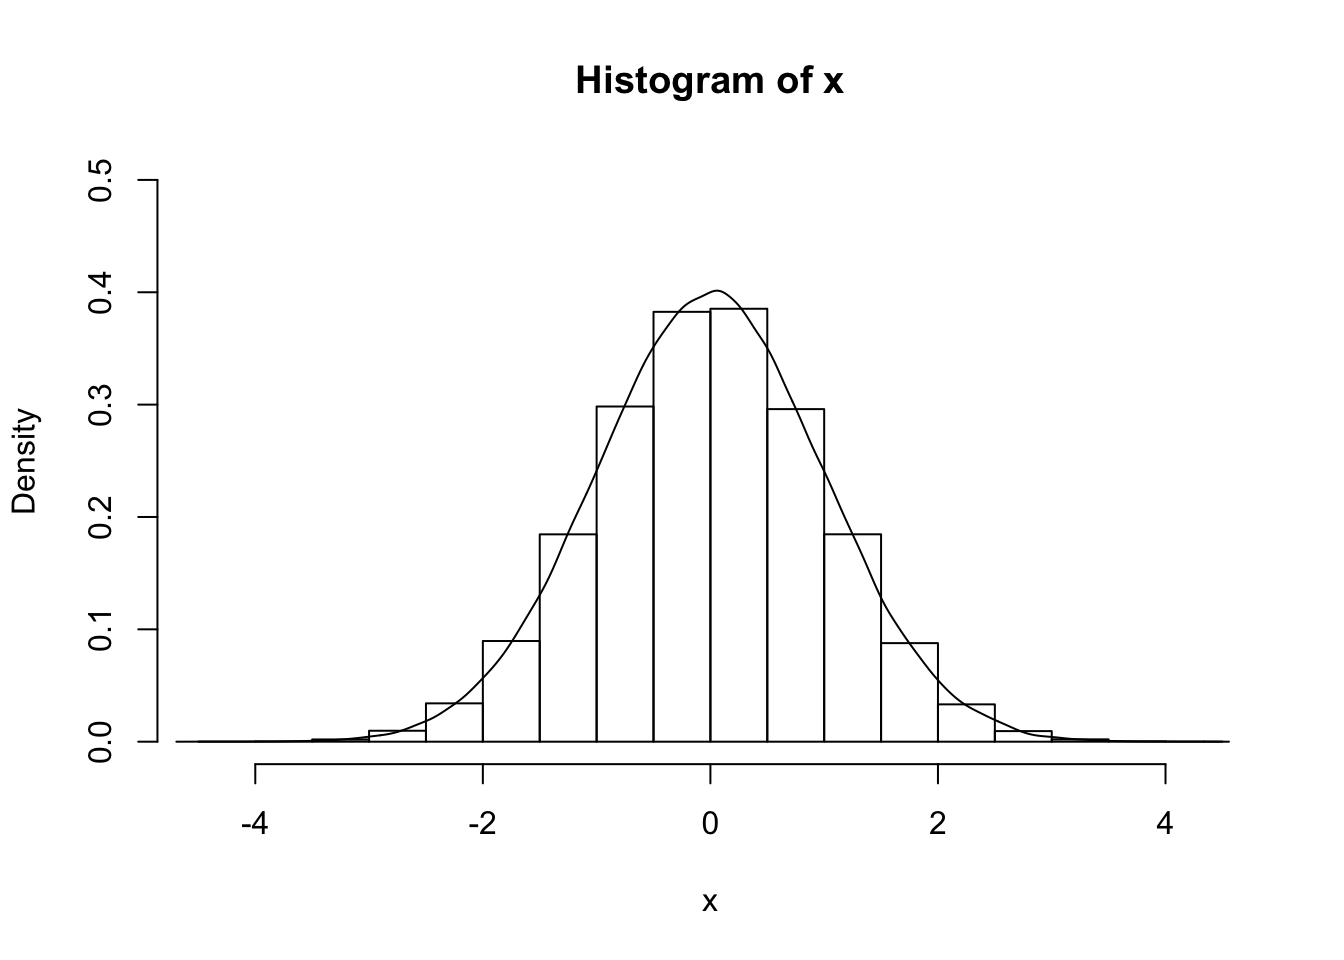
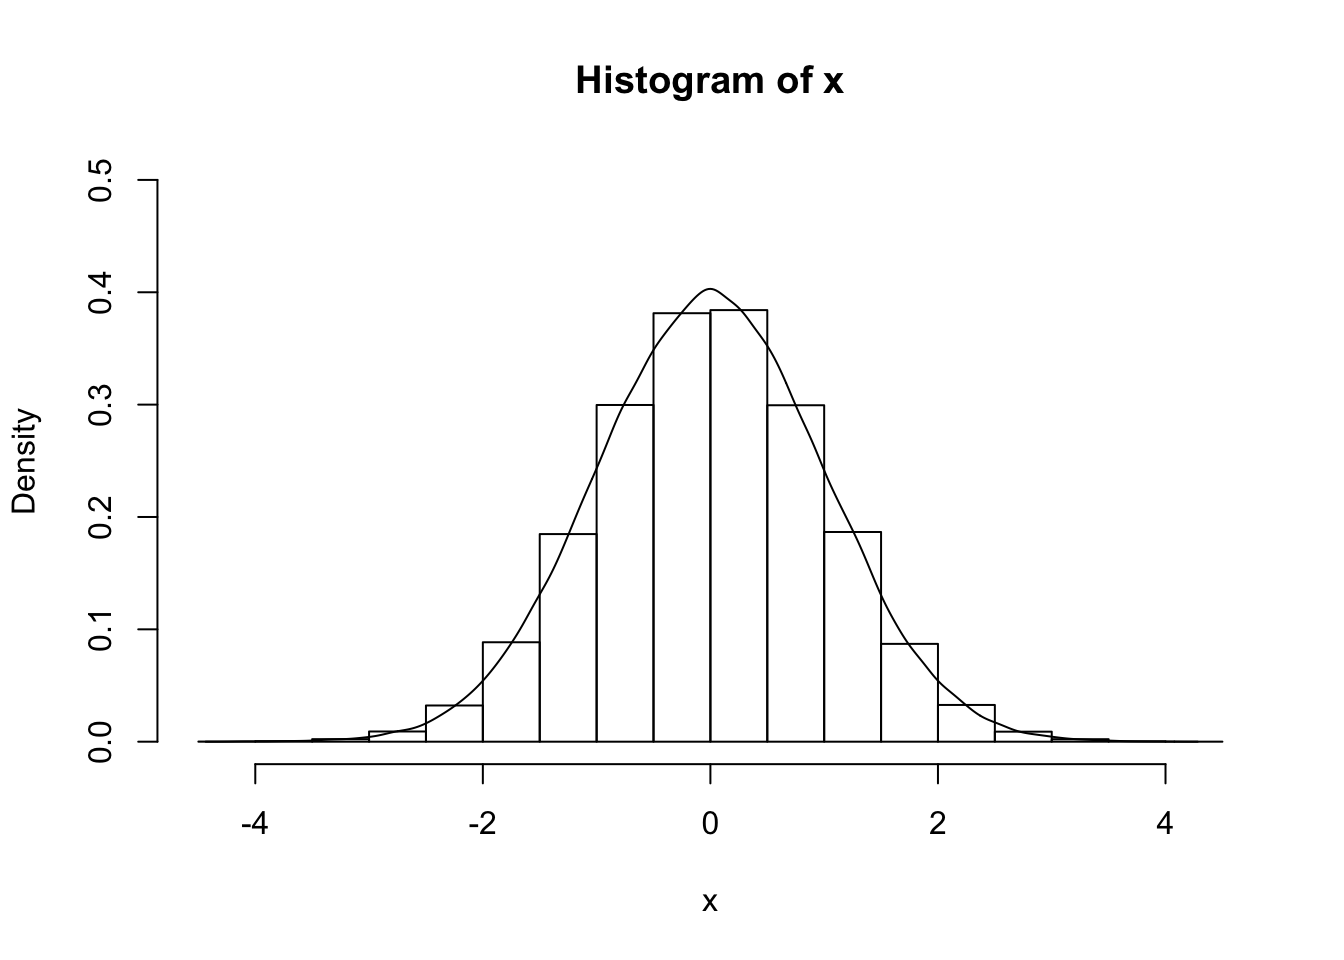
2020 version

diff --git a/Tutorial2.html b/Tutorial2.html
@@ -310,7 +310,7 @@ dev.off()</code></pre>
 <p>(attach the corresponding plots to the email)</p>
 <ol style="list-style-type: decimal">
 <li><p>Use the dataset <code>airquality</code>. Draw a scattar to show the relationship between variables <code>Ozone</code> and <code>Solar.R</code>. Show the points with <code>Wind</code> values greater than 9.7 in red, otherwise in black.</p></li>
-<li><p>(!!! Only for practice, feel free to skip) Make plot to monitor the convergence of the exponential function (<span class="math inline">\(e^x \ = \sum_{n=0}^{\infty} \frac{x^{n}}{n!}\)</span>) with <span class="math inline">\(x = 5\)</span>.</p></li>
+<li><p>[!!! Only for practice (answers proviede below)] Make plot to monitor the convergence of the exponential function (<span class="math inline">\(e^x \ = \sum_{n=0}^{\infty} \frac{x^{n}}{n!}\)</span>) with <span class="math inline">\(x = 5\)</span>.</p></li>
 </ol>
 <pre class="r"><code>taylor_appox&lt;- function(x){
   function(N){
@@ -416,8 +416,8 @@ qnorm(.975, 0, 1)
 pnorm(1.96, 0, 1)
 #&gt; [1] 0.9750021
 rnorm(10, 0, 1)
-#&gt;  [1] -0.082499319  1.238037464  0.576800506  0.327948621  0.002954996
-#&gt;  [6] -0.605853673 -0.683070254 -0.588013390 -0.246968332  2.661740345
+#&gt;  [1] -0.8928882  0.7825652 -0.6458514 -1.4305896 -2.0996365  0.7622516
+#&gt;  [7]  1.0083695  1.2804518  0.7820582 -0.7327023
 
 x&lt;- rnorm(100000, 0, 1)
 hist(x, freq = F, ylim = c(0, .5))
@@ -432,8 +432,8 @@ qbeta(.975, 1, 2)
 pbeta(0.5, 1, 2)
 #&gt; [1] 0.75
 rbeta(10, 1, 2)
-#&gt;  [1] 0.35680206 0.22537708 0.65392480 0.50781762 0.18261266 0.25612675
-#&gt;  [7] 0.03693892 0.23196874 0.05594814 0.10336788</code></pre>
+#&gt;  [1] 0.42629925 0.22026587 0.05088673 0.72945748 0.20651446 0.39062657
+#&gt;  [7] 0.70644263 0.49529249 0.40323229 0.11682070</code></pre>
 <p>E.g. Gamma distribution</p>
 <pre class="r"><code>dgamma(10, 5)
 #&gt; [1] 0.01891664
@@ -442,8 +442,8 @@ qgamma(.5, 5)
 pgamma(10, 5)
 #&gt; [1] 0.9707473
 rgamma(10, 5)
-#&gt;  [1] 5.781742 6.042156 2.889718 8.934964 3.438371 2.554639 7.914396
-#&gt;  [8] 3.740574 1.496329 2.454284</code></pre>
+#&gt;  [1]  2.7942743  2.1444853  3.6881719  8.5974058  4.5867774  4.3416178
+#&gt;  [7]  1.6207320 15.6383269  3.7665928  0.8252401</code></pre>
 <p>Other commonly used distributions</p>
 <ul>
 <li>Uniform (<code>dunif</code>, <code>qunif</code>, <code>punif</code>, <code>runif</code>)</li>
@@ -583,14 +583,19 @@ test_dat&lt;- iris[test_ind,]
 
 nn_model&lt;- nnet(Species ~., linout = T, size = 5, data = train_dat)
 #&gt; # weights:  43
-#&gt; initial  value 170.440046 
-#&gt; iter  10 value 10.027442
-#&gt; iter  20 value 6.431536
-#&gt; iter  30 value 4.700796
-#&gt; iter  40 value 4.677042
-#&gt; iter  50 value 4.676276
-#&gt; final  value 4.676274 
-#&gt; converged
+#&gt; initial  value 206.032130 
+#&gt; iter  10 value 54.601312
+#&gt; iter  20 value 46.947243
+#&gt; iter  30 value 22.003437
+#&gt; iter  40 value 7.015933
+#&gt; iter  50 value 5.173304
+#&gt; iter  60 value 5.039944
+#&gt; iter  70 value 5.019717
+#&gt; iter  80 value 5.019021
+#&gt; iter  90 value 5.016531
+#&gt; iter 100 value 5.015134
+#&gt; final  value 5.015134 
+#&gt; stopped after 100 iterations
 
 pred_nn&lt;- predict(nn_model, test_dat, type = &#39;class&#39;)
 
@@ -609,8 +614,8 @@ pred_cart&lt;- predict(cart_model, test_dat, type = &#39;class&#39;)
 ## Accuracy
 table(test_dat$Species == pred_cart) / nrow(test_dat)
 #&gt; 
-#&gt;     FALSE      TRUE 
-#&gt; 0.2666667 0.7333333</code></pre>
+#&gt;      FALSE       TRUE 
+#&gt; 0.03333333 0.96666667</code></pre>
 <p>Use <code>install.packages()</code> to install package.</p>
 <p>Example: Use t-SNE for dimensionality reduction, visualizing breast cancer data.</p>
 <pre class="r"><code>library(tsne)
@@ -620,16 +625,16 @@ exp_dat&lt;- read.table(url, sep = &quot;,&quot;, header = F)
 
 tsne_res&lt;- tsne(exp_dat[, 3:32], perplexity = 100)
 #&gt; sigma summary: Min. : 0.38658523478823 |1st Qu. : 0.61806546548001 |Median : 0.648107496657062 |Mean : 0.651623332613159 |3rd Qu. : 0.67963590493686 |Max. : 1.05004711205922 |
-#&gt; Epoch: Iteration #100 error is: 15.3528753279212
-#&gt; Epoch: Iteration #200 error is: 1.00660593156636
-#&gt; Epoch: Iteration #300 error is: 0.989442865780564
-#&gt; Epoch: Iteration #400 error is: 0.986371905142492
-#&gt; Epoch: Iteration #500 error is: 0.98454595694516
-#&gt; Epoch: Iteration #600 error is: 0.98453268198424
-#&gt; Epoch: Iteration #700 error is: 0.984532681967472
-#&gt; Epoch: Iteration #800 error is: 0.984532681967472
-#&gt; Epoch: Iteration #900 error is: 0.984532681967472
-#&gt; Epoch: Iteration #1000 error is: 0.984532681967472
+#&gt; Epoch: Iteration #100 error is: 15.7691966168907
+#&gt; Epoch: Iteration #200 error is: 1.02556399310609
+#&gt; Epoch: Iteration #300 error is: 1.02488163204981
+#&gt; Epoch: Iteration #400 error is: 1.0248802838785
+#&gt; Epoch: Iteration #500 error is: 1.0248802838784
+#&gt; Epoch: Iteration #600 error is: 1.0248802838784
+#&gt; Epoch: Iteration #700 error is: 1.0248802838784
+#&gt; Epoch: Iteration #800 error is: 1.0248802838784
+#&gt; Epoch: Iteration #900 error is: 1.0248802838784
+#&gt; Epoch: Iteration #1000 error is: 1.0248802838784
 
 plot(tsne_res[which(exp_dat$V2 == &quot;B&quot;), ], col = 1, pch = 20, xlim = c(-6, 6), ylim = c(-6, 6), xlab = &quot;&quot;, ylab = &quot;&quot;)
 points(tsne_res[which(exp_dat$V2 == &quot;M&quot;), ], col = 2, pch = 20)</code></pre>

diff --git a/index.html b/index.html
@@ -218,7 +218,7 @@ $(document).ready(function () {
 <li>Exercise packs 0-6
 <ul>
 <li>.txt file, see <a href="https://humblelu.github.io/IntroR/Exercise.html">example</a></li>
-<li>Deadline: 31.08.2019 [Extension possible]</li>
+<li>Deadline: 31.08.2020 [Extension possible]</li>
 <li>Email to <a href="mailto:chien.lu@tuni.fi">chien.lu@tuni.fi</a> by the deadline</li>
 </ul></li>
 <li>Data analysis course work (individual or group)
@@ -226,7 +226,7 @@ $(document).ready(function () {
 <li>PDF format</li>
 <li>Perform statistical data analysis using R</li>
 <li>If you don’t have your own dataset, come to discuss with me!</li>
-<li>Deadline: 31.08.2019 [Extension possible]</li>
+<li>Deadline: 31.08.2020 [Extension possible]</li>
 <li>Email to <a href="mailto:chien.lu@tuni.fi">chien.lu@tuni.fi</a> by the deadline</li>
 </ul></li>
 <li>No exams (yayyy!)</li>
